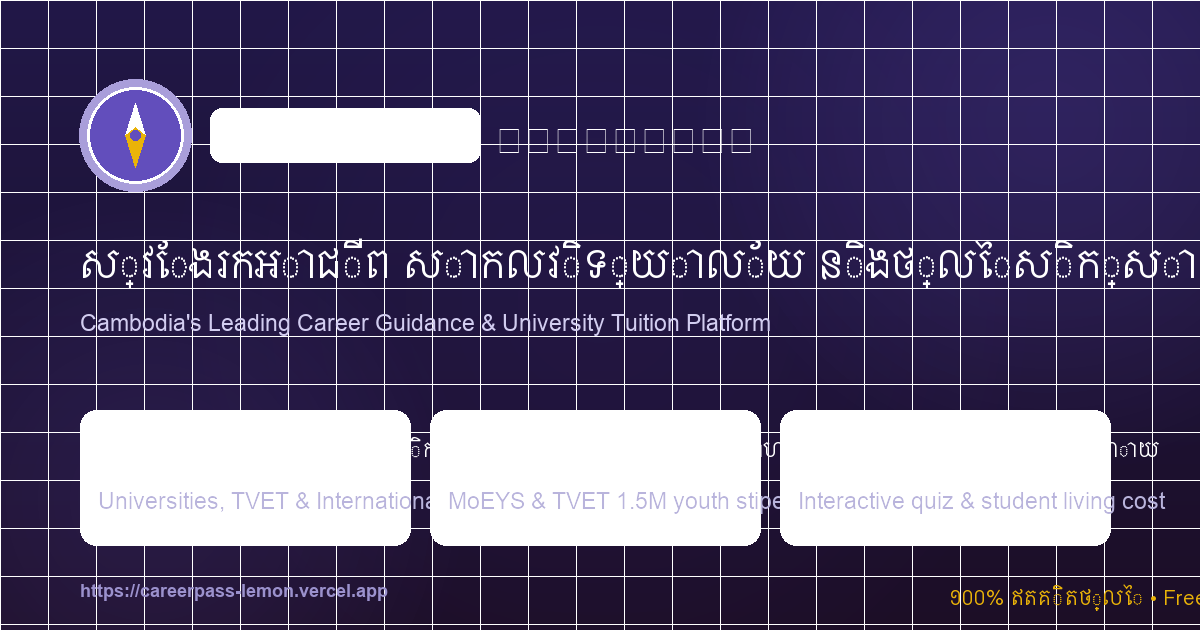
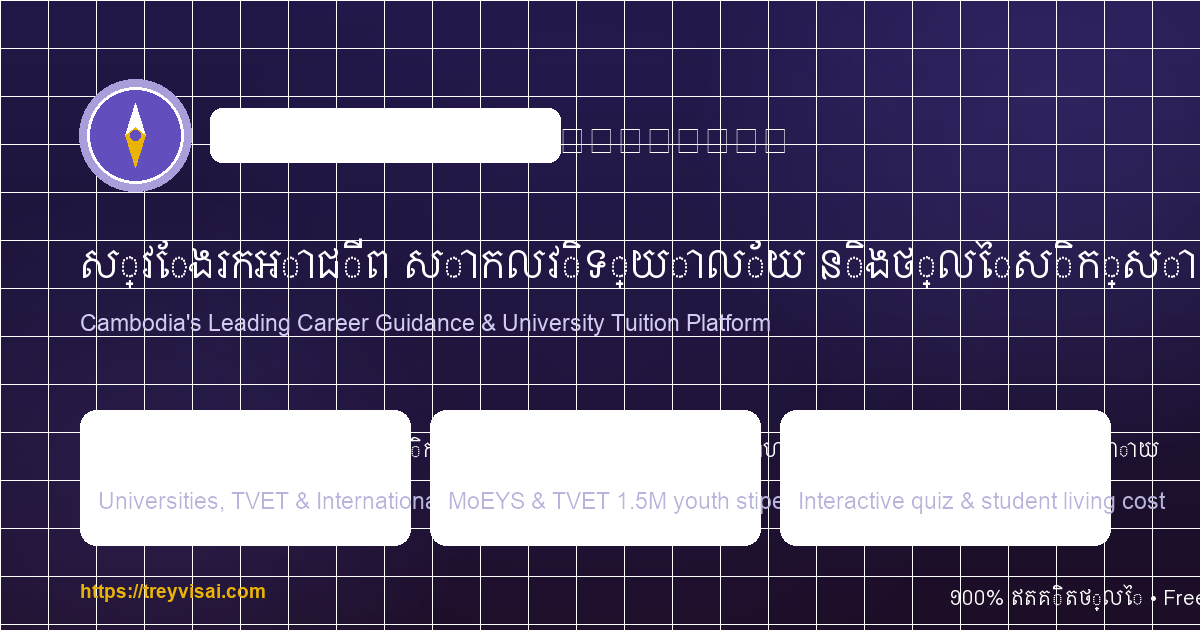
feat: rebrand site and canonical domain to treyvisai.com (#28)

Changed region(s): [[0.4008, 0.1508, 0.6475, 0.2714], [0.0617, 0.9048, 0.3392, 0.9651], [0.7708, 0.9349, 1.0, 0.9651]]

diff --git a/index.html b/index.html
@@ -3,42 +3,42 @@
 <head>
 <meta charset="UTF-8">
 <meta name="viewport" content="width=device-width, initial-scale=1.0, viewport-fit=cover">
-<title>Trey Visai (ត្រីវិស័យ) — ស្វែងរកអាជីព សាកលវិទ្យាល័យ និងថ្លៃសិក្សានៅកម្ពុជា</title>
+<title>treyvisai.com (ត្រីវិស័យ) — ស្វែងរកអាជីព សាកលវិទ្យាល័យ និងថ្លៃសិក្សានៅកម្ពុជា</title>
 
 <!-- Primary SEO Meta Tags -->
-<meta name="description" content="ត្រីវិស័យ (Trey Visai) — ថ្នាលណែនាំអាជីព និងស្វែងរកគ្រឹះស្ថានឧត្តមសិក្សា ១១៦+ នៅកម្ពុជា តារាងថ្លៃសិក្សាពិតប្រាកដ អាហារូបករណ៍រដ្ឋ MOEYS & TVET 1.5M តេស្តស្វែងរកអាជីព និងការគណនាថ្លៃជីវភាពសិស្សនិស្សិត។">
-<meta name="keywords" content="ត្រីវិស័យ, Trey Visai, Careerpass, សាកលវិទ្យាល័យនៅកម្ពុជា, សាលារៀននៅភ្នំពេញ, សាកលវិទ្យាល័យរដ្ឋ, សាកលវិទ្យាល័យឯកជន, អាហារូបករណ៍រដ្ឋ, ថ្លៃសិក្សាសាកលវិទ្យាល័យ, ស្វែងរកការងារ, អាជីពនៅកម្ពុជា, TVET, universities in Cambodia, Cambodia tuition fees, Cambodia career guide">
-<meta name="author" content="Trey Visai (ត្រីវិស័យ)">
+<meta name="description" content="treyvisai.com (ត្រីវិស័យ) — ថ្នាលណែនាំអាជីព និងស្វែងរកគ្រឹះស្ថានឧត្តមសិក្សា ១១៦+ នៅកម្ពុជា តារាងថ្លៃសិក្សាពិតប្រាកដ អាហារូបករណ៍រដ្ឋ MOEYS & TVET 1.5M តេស្តស្វែងរកអាជីព និងការគណនាថ្លៃជីវភាពសិស្សនិស្សិត។">
+<meta name="keywords" content="treyvisai.com, treyvisai, ត្រីវិស័យ, Trey Visai, Careerpass, សាកលវិទ្យាល័យនៅកម្ពុជា, សាលារៀននៅភ្នំពេញ, សាកលវិទ្យាល័យរដ្ឋ, សាកលវិទ្យាល័យឯកជន, អាហារូបករណ៍រដ្ឋ, ថ្លៃសិក្សាសាកលវិទ្យាល័យ, ស្វែងរកការងារ, អាជីពនៅកម្ពុជា, TVET, universities in Cambodia, Cambodia tuition fees, Cambodia career guide">
+<meta name="author" content="treyvisai.com">
 <meta name="robots" content="index, follow, max-snippet:-1, max-image-preview:large, max-video-preview:-1">
-<link rel="canonical" href="https://careerpass-lemon.vercel.app/">
+<link rel="canonical" href="https://treyvisai.com/">
 
 <!-- Open Graph / Facebook / Telegram / LinkedIn -->
 <meta property="og:type" content="website">
-<meta property="og:url" content="https://careerpass-lemon.vercel.app/">
-<meta property="og:site_name" content="Trey Visai (ត្រីវិស័យ)">
-<meta property="og:title" content="Trey Visai (ត្រីវិស័យ) — ស្វែងរកអាជីព សាកលវិទ្យាល័យ និងថ្លៃសិក្សានៅកម្ពុជា">
+<meta property="og:url" content="https://treyvisai.com/">
+<meta property="og:site_name" content="treyvisai.com">
+<meta property="og:title" content="treyvisai.com (ត្រីវិស័យ) — ស្វែងរកអាជីព សាកលវិទ្យាល័យ និងថ្លៃសិក្សានៅកម្ពុជា">
 <meta property="og:description" content="ស្វែងរកសាកលវិទ្យាល័យ ១១៦+ ព័ត៌មានអាហារូបករណ៍រដ្ឋ MOEYS & TVET 1.5M ថ្លៃសិក្សាពិតប្រាកដ និងការណែនាំអាជីពឆ្លាតវៃនៅកម្ពុជា។">
-<meta property="og:image" content="https://careerpass-lemon.vercel.app/public/og-image.png">
-<meta property="og:image:secure_url" content="https://careerpass-lemon.vercel.app/public/og-image.png">
+<meta property="og:image" content="https://treyvisai.com/public/og-image.png">
+<meta property="og:image:secure_url" content="https://treyvisai.com/public/og-image.png">
 <meta property="og:image:type" content="image/png">
 <meta property="og:image:width" content="1200">
 <meta property="og:image:height" content="630">
-<meta property="og:image:alt" content="Trey Visai — Cambodia Career & University Guidance Platform">
+<meta property="og:image:alt" content="treyvisai.com — Cambodia Career & University Guidance Platform">
 <meta property="og:locale" content="km_KH">
 <meta property="og:locale:alternate" content="en_US">
 
 <!-- Twitter / X Cards -->
 <meta name="twitter:card" content="summary_large_image">
-<meta name="twitter:url" content="https://careerpass-lemon.vercel.app/">
-<meta name="twitter:title" content="Trey Visai (ត្រីវិស័យ) — ស្វែងរកអាជីព សាកលវិទ្យាល័យ និងថ្លៃសិក្សានៅកម្ពុជា">
+<meta name="twitter:url" content="https://treyvisai.com/">
+<meta name="twitter:title" content="treyvisai.com (ត្រីវិស័យ) — ស្វែងរកអាជីព សាកលវិទ្យាល័យ និងថ្លៃសិក្សានៅកម្ពុជា">
 <meta name="twitter:description" content="ស្វែងរកសាកលវិទ្យាល័យ ១១៦+ ព័ត៌មានអាហារូបករណ៍រដ្ឋ MOEYS & TVET 1.5M ថ្លៃសិក្សាពិតប្រាកដ និងការណែនាំអាជីពឆ្លាតវៃនៅកម្ពុជា។">
-<meta name="twitter:image" content="https://careerpass-lemon.vercel.app/public/og-image.png">
-<meta name="twitter:image:alt" content="Trey Visai — Cambodia Career & University Guidance Platform">
+<meta name="twitter:image" content="https://treyvisai.com/public/og-image.png">
+<meta name="twitter:image:alt" content="treyvisai.com — Cambodia Career & University Guidance Platform">
 
 <!-- Mobile App & Theme Meta -->
 <meta name="theme-color" content="#624EBC">
-<meta name="application-name" content="Trey Visai">
-<meta name="apple-mobile-web-app-title" content="Trey Visai">
+<meta name="application-name" content="treyvisai.com">
+<meta name="apple-mobile-web-app-title" content="treyvisai.com">
 <meta name="apple-mobile-web-app-capable" content="yes">
 <meta name="apple-mobile-web-app-status-bar-style" content="default">
 <meta name="format-detection" content="telephone=no">
@@ -65,27 +65,27 @@
   "@graph": [
     {
       "@type": "WebSite",
-      "@id": "https://careerpass-lemon.vercel.app/#website",
-      "url": "https://careerpass-lemon.vercel.app/",
-      "name": "Trey Visai",
-      "alternateName": ["ត្រីវិស័យ", "Careerpass", "Trey Visai Cambodia"],
+      "@id": "https://treyvisai.com/#website",
+      "url": "https://treyvisai.com/",
+      "name": "treyvisai.com",
+      "alternateName": ["ត្រីវិស័យ", "Trey Visai", "Careerpass", "Trey Visai Cambodia"],
       "description": "ថ្នាលស្វែងរកអាជីព សាកលវិទ្យាល័យ ១១៦+ តម្លៃសិក្សា និងអាហារូបករណ៍នៅកម្ពុជា",
       "inLanguage": ["km", "en"],
       "potentialAction": {
         "@type": "SearchAction",
         "target": {
           "@type": "EntryPoint",
-          "urlTemplate": "https://careerpass-lemon.vercel.app/#schools?q={search_term_string}"
+          "urlTemplate": "https://treyvisai.com/#schools?q={search_term_string}"
         },
         "query-input": "required name=search_term_string"
       }
     },
     {
       "@type": "EducationalOrganization",
-      "@id": "https://careerpass-lemon.vercel.app/#organization",
-      "name": "Trey Visai (ត្រីវិស័យ)",
-      "url": "https://careerpass-lemon.vercel.app/",
-      "logo": "https://careerpass-lemon.vercel.app/public/og-image.png",
+      "@id": "https://treyvisai.com/#organization",
+      "name": "treyvisai.com (ត្រីវិស័យ)",
+      "url": "https://treyvisai.com/",
+      "logo": "https://treyvisai.com/public/og-image.png",
       "description": "Platform for Cambodian students to discover careers, universities, tuition fees, and scholarships.",
       "areaServed": {
         "@type": "Country",
@@ -94,11 +94,11 @@
     },
     {
       "@type": "FAQPage",
-      "@id": "https://careerpass-lemon.vercel.app/#faq",
+      "@id": "https://treyvisai.com/#faq",
       "mainEntity": [
         {
           "@type": "Question",
-          "name": "តើ Trey Visai ឥតគិតថ្លៃមែនទេ?",
+          "name": "តើ treyvisai.com ឥតគិតថ្លៃមែនទេ?",
           "acceptedAnswer": {
             "@type": "Answer",
             "text": "មែនហើយ។ មុខងារទាំងអស់ — ស្វែងរកអាជីព ស្វែងរកសាលា និងគណនាថ្លៃសិក្សា — ឥតគិតថ្លៃទាំងស្រុង ដោយមិនចាំបាច់បង្កើតគណនី ឬបង់ប្រាក់។"
@@ -151,7 +151,7 @@
         <circle class="pc-hub" cx="50" cy="50" r="4"/>
       </svg>
     </div>
-    <div class="pre-word">TREY VISAI</div>
+    <div class="pre-word">TREYVISAI.COM</div>
     <div class="pre-sub">កំពុងស្វែងរកផ្លូវរបស់អ្នក…</div>
   </div>
 </div>
@@ -182,7 +182,7 @@
         <path d="M16 8L10.6 10.6L8 16L13.4 13.4L16 8Z" fill="var(--accent)" stroke="var(--accent)" stroke-width="1.1" stroke-linejoin="round"/>
         <circle cx="12" cy="12" r="1.15" fill="currentColor"/>
       </svg>
-      <span>Trey Visai</span>
+      <span>treyvisai.com</span>
     </div>
     <div class="nav-right">
       <nav class="nav-links" id="nav-links">
@@ -206,7 +206,7 @@
   <div class="hero reveal">
     <div class="hero-badge"><i class="material-symbols-outlined" style="font-size:14px">auto_awesome</i> ជំនួយការអាជីពរបស់អ្នក</div>
     <h1 id="hero-title"><span id="hero-type">ស្វែងរកខ្លួនអ្នក ជ្រើសរើសអាជីព រៀនកន្លែងណា</span><span class="type-cursor" id="type-cursor"></span></h1>
-    <p class="sub">Trey Visai ជួយសិស្សស្វែងរកអាជីពដែលសមស្រប ស្វែងរកសាលាដែលបង្រៀន និងប៉ាន់ស្មានថ្លៃដែលត្រូវចំណាយ។</p>
+    <p class="sub">treyvisai.com ជួយសិស្សស្វែងរកអាជីពដែលសមស្រប ស្វែងរកសាលាដែលបង្រៀន និងប៉ាន់ស្មានថ្លៃដែលត្រូវចំណាយ។</p>
     <div class="cta-row">
       <button class="btn btn-primary btn-lg" data-view="careers"><i class="material-symbols-outlined">explore</i> ស្វែងរកអាជីព</button>
     </div>
@@ -277,7 +277,7 @@
       <h2 class="home-h2">សំណួរ ដែលសិស្សតែងសួរ</h2>
     </div>
     <div class="faq-list">
-      <details class="faq-item"><summary>តើ Trey Visai ឥតគិតថ្លៃមែនទេ?<i class="material-symbols-outlined">expand_more</i></summary><p>មែនហើយ។ មុខងារទាំងអស់ — ស្វែងរកអាជីព ស្វែងរកសាលា និងគណនាថ្លៃសិក្សា — ឥតគិតថ្លៃទាំងស្រុង ដោយមិនចាំបាច់បង្កើតគណនី ឬបង់ប្រាក់។</p></details>
+      <details class="faq-item"><summary>តើ treyvisai.com ឥតគិតថ្លៃមែនទេ?<i class="material-symbols-outlined">expand_more</i></summary><p>មែនហើយ។ មុខងារទាំងអស់ — ស្វែងរកអាជីព ស្វែងរកសាលា និងគណនាថ្លៃសិក្សា — ឥតគិតថ្លៃទាំងស្រុង ដោយមិនចាំបាច់បង្កើតគណនី ឬបង់ប្រាក់។</p></details>
       <details class="faq-item"><summary>តើខ្ញុំគួរចាប់ផ្ដើមស្វែងរកដោយរបៀបណា?<i class="material-symbols-outlined">expand_more</i></summary><p>អ្នកអាចចាប់ផ្ដើមដោយការរុករកទំព័រ «អាជីព» ដើម្បីស្វែងយល់ពីទីផ្សារការងារ ឬទំព័រ «សាលា» ដើម្បីស្វែងរកគ្រឹះស្ថានឧត្តមសិក្សា និងកម្មវិធីសិក្សាដែលត្រូវចិត្ត។</p></details>
       <details class="faq-item"><summary>តើមានសាលាប៉ុន្មាននៅក្នុងប្រព័ន្ធ?<i class="material-symbols-outlined">expand_more</i></summary><p>បច្ចុប្បន្នមាន ១១៦ សាកលវិទ្យាល័យ វិទ្យាស្ថាន និងសាលាបណ្ដុះបណ្ដាល ទាំងរដ្ឋ និងឯកជន នៅទូទាំងប្រទេស ព្រមទាំងព័ត៌មានថ្លៃសិក្សា និងអាហារូបករណ៍។</p></details>
       <details class="faq-item"><summary>តើទិន្នន័យថ្លៃសិក្សាពិតប្រាកដទេ?<i class="material-symbols-outlined">expand_more</i></summary><p>តួលេខថ្លៃសិក្សាគឺជាការប៉ាន់ស្មានផ្អែកលើព័ត៌មានផ្លូវការ ដើម្បីជួយអ្នកគ្រោងទុក។ សូមផ្ទៀងផ្ទាត់ជាមួយសាលាដោយផ្ទាល់មុនពេលសម្រេចចិត្ត។</p></details>
@@ -673,12 +673,12 @@
 <section id="view-terms" class="view">
   <div class="page-wrap">
     <h2 class="page-title">លក្ខខណ្ឌ និងការប្រើប្រាស់</h2>
-    <p class="page-sub">សូមអានលក្ខខណ្ឌខាងក្រោមមុននឹងប្រើប្រាស់ Trey Visai</p>
+    <p class="page-sub">សូមអានលក្ខខណ្ឌខាងក្រោមមុននឹងប្រើប្រាស់ treyvisai.com</p>
     <div class="legal-box reveal">
       <i class="material-symbols-outlined">school</i>
       <div>
         <h3>សម្រាប់គោលបំណងអប់រំប៉ុណ្ណោះ</h3>
-        <p>Trey Visai ត្រូវបានបង្កើតឡើងសម្រាប់គោលបំណងអប់រំ និងការណែនាំតែប៉ុណ្ណោះ។ ព័ត៌មានទាំងអស់ក្នុងគេហទំព័រនេះមិនមែនជាការណែនាំផ្លូវការ ឬការសម្រេចចិត្តចុងក្រោយឡើយ។</p>
+        <p>treyvisai.com ត្រូវបានបង្កើតឡើងសម្រាប់គោលបំណងអប់រំ និងការណែនាំតែប៉ុណ្ណោះ។ ព័ត៌មានទាំងអស់ក្នុងគេហទំព័រនេះមិនមែនជាការណែនាំផ្លូវការ ឬការសម្រេចចិត្តចុងក្រោយឡើយ។</p>
       </div>
     </div>
 
@@ -710,7 +710,7 @@
       <h3><span class="num">៧</span> ការទទួលខុសត្រូវ</h3>
       <p>ការប្រើប្រាស់គេហទំព័រនេះ ស្ថិតលើការសម្រេចចិត្តផ្ទាល់ខ្លួនរបស់អ្នក។ អ្នកបង្កើតគម្រោងនេះមិនទទួលខុសត្រូវចំពោះការសម្រេចចិត្តណាមួយ ដែលធ្វើឡើងដោយផ្អែកលើព័ត៌មានក្នុងគេហទំព័រនេះទេ។ សូមពិគ្រោះជាមួយគ្រូ ឪពុកម្ដាយ ឬអ្នកប្រឹក្សាមុននឹងសម្រេចចិត្ត។</p>
     </div>
-    <p class="legal-updated">ធ្វើបច្ចុប្បន្នភាពចុងក្រោយ៖ ឆ្នាំ ២០២៦ · Trey Visai — សម្រាប់គោលបំណងអប់រំប៉ុណ្ណោះ</p>
+    <p class="legal-updated">ធ្វើបច្ចុប្បន្នភាពចុងក្រោយ៖ ឆ្នាំ ២០២៦ · treyvisai.com — សម្រាប់គោលបំណងអប់រំប៉ុណ្ណោះ</p>
   </div>
 </section>
 
@@ -745,7 +745,7 @@
 <footer class="site-footer">
   <div class="footer-inner">
     <div class="footer-bottom">
-      <p class="footer-copy">&copy; 2026 Trey Visai · សម្រាប់គោលបំណងអប់រំប៉ុណ្ណោះ</p>
+      <p class="footer-copy">&copy; 2026 treyvisai.com · សម្រាប់គោលបំណងអប់រំប៉ុណ្ណោះ</p>
       <p class="footer-tagline">គម្រោងជួយសិស្សស្វែងរកអាជីព សាលារៀន និងថ្លៃសិក្សា</p>
     </div>
   </div>
@@ -755,12 +755,12 @@
 
 <div id="mascot-backdrop" class="mascot-backdrop"></div>
 <div id="mascot-widget" class="mascot-widget">
-  <div id="mascot-chat" class="mascot-chat" role="dialog" aria-modal="false" aria-label="ជំនួយការគេហទំព័រ Trey Visai" hidden>
+  <div id="mascot-chat" class="mascot-chat" role="dialog" aria-modal="false" aria-label="ជំនួយការគេហទំព័រ treyvisai.com" hidden>
     <div class="mascot-chat-header">
       <div style="display:flex;align-items:center;gap:8px">
         <img src="public/mascot/idle.png" alt="" class="mascot-header-avatar" width="28" height="28">
         <div>
-          <div class="mascot-chat-title">ជំនួយការ Trey Visai</div>
+          <div class="mascot-chat-title">ជំនួយការ treyvisai.com</div>
           <div class="mascot-chat-status"><span class="mascot-online-dot"></span> កំពុងដំណើរការ</div>
         </div>
       </div>

diff --git a/app.js b/app.js
@@ -131,16 +131,16 @@ hamburger.addEventListener("click",toggleSidebar);
 
 /* ===== NAVIGATION ===== */
 const VIEW_TITLES = {
-  home: "Trey Visai (ត្រីវិស័យ) — ស្វែងរកអាជីព សាកលវិទ្យាល័យ និងថ្លៃសិក្សានៅកម្ពុជា",
-  schools: "ស្វែងរកសាលារៀន និងសាកលវិទ្យាល័យ ១១៦+ នៅកម្ពុជា — Trey Visai",
-  careers: "បញ្ជីអាជីព និងការងារពេញនិយមនៅកម្ពុជា — Trey Visai",
-  cost: "ប៉ាន់ស្មានថ្លៃសិក្សា & ជីវភាពរស់នៅ — Trey Visai",
-  quiz: "តេស្តស្វែងរកអាជីពដែលស័ក្តិសម — Trey Visai",
-  scholarship: "អាហារូបករណ៍រដ្ឋ និងជំនួយហិរញ្ញវត្ថុ — Trey Visai",
-  compare: "ប្រៀបធៀបសាកលវិទ្យាល័យនៅកម្ពុជា — Trey Visai",
-  plan: "ផែនការអប់រំ និងអាជីពផ្ទាល់ខ្លួន — Trey Visai",
-  facts: "តើអ្នកដឹងទេ? ការពិត និងស្ថិតិអប់រំ — Trey Visai",
-  terms: "លក្ខខណ្ឌប្រើប្រាស់ និងគោលការណ៍ឯកជនភាព — Trey Visai"
+  home: "treyvisai.com (ត្រីវិស័យ) — ស្វែងរកអាជីព សាកលវិទ្យាល័យ និងថ្លៃសិក្សានៅកម្ពុជា",
+  schools: "ស្វែងរកសាលារៀន និងសាកលវិទ្យាល័យ ១១៦+ នៅកម្ពុជា — treyvisai.com",
+  careers: "បញ្ជីអាជីព និងការងារពេញនិយមនៅកម្ពុជា — treyvisai.com",
+  cost: "ប៉ាន់ស្មានថ្លៃសិក្សា & ជីវភាពរស់នៅ — treyvisai.com",
+  quiz: "តេស្តស្វែងរកអាជីពដែលស័ក្តិសម — treyvisai.com",
+  scholarship: "អាហារូបករណ៍រដ្ឋ និងជំនួយហិរញ្ញវត្ថុ — treyvisai.com",
+  compare: "ប្រៀបធៀបសាកលវិទ្យាល័យនៅកម្ពុជា — treyvisai.com",
+  plan: "ផែនការអប់រំ និងអាជីពផ្ទាល់ខ្លួន — treyvisai.com",
+  facts: "តើអ្នកដឹងទេ? ការពិត និងស្ថិតិអប់រំ — treyvisai.com",
+  terms: "លក្ខខណ្ឌប្រើប្រាស់ និងគោលការណ៍ឯកជនភាព — treyvisai.com"
 };
 
 function showView(v){
@@ -435,7 +435,7 @@ function openSchool(id){
       </div>
     </div>`;
   showView("school-detail");
-  document.title = `${s.name} — មហាវិទ្យាល័យ ថ្លៃសិក្សា & អាហារូបករណ៍ | Trey Visai`;
+  document.title = `${s.name} — មហាវិទ្យាល័យ ថ្លៃសិក្សា & អាហារូបករណ៍ | treyvisai.com`;
   try{sessionStorage.setItem("tv_detail","school:"+id);}catch(e){}
 }
 
@@ -763,7 +763,7 @@ function openCareer(id){
       </div>
     </div>`;
   showView("career-detail");
-  document.title = `${j.name} — ប្រាក់ខែ ជំនាញ & សាលា | Trey Visai`;
+  document.title = `${j.name} — ប្រាក់ខែ ជំនាញ & សាលា | treyvisai.com`;
   try{sessionStorage.setItem("tv_detail","career:"+id);}catch(e){}
 }
 document.getElementById("career-search").addEventListener("input",e=>{jobSearch=e.target.value;jobPage=1;renderCareers();});
@@ -946,7 +946,7 @@ function costData(){
 function costShareText(){
   const d=costData();
   const bar="━━━━━━━━━━━━━";
-  const L=["🧾 វិក្កយបត្រថ្លៃសិក្សា — Trey Visai",bar];
+  const L=["🧾 វិក្កយបត្រថ្លៃសិក្សា — treyvisai.com",bar];
   if(d.sc)L.push("🏫 "+d.sc);
   if(d.dur)L.push("🎓 "+d.dur);
   L.push(bar);
@@ -959,7 +959,7 @@ function costShareText(){
   L.push("💰 សរុប៖ "+(d.total||"$0"));
   if(d.pay&&d.pay!=="—")L.push("📊 ROI សងវិញ "+d.pay+(d.sal?" · ប្រាក់ខែ ~"+d.sal:""));
   L.push(bar);
-  L.push("🔗 គណនាដោយខ្លួនឯងនៅ Trey Visai");
+  L.push("🔗 គណនាដោយខ្លួនឯងនៅ treyvisai.com");
   return L.join("\n");
 }
 function shareCostTo(p){
@@ -970,7 +970,7 @@ function shareCostTo(p){
     return;
   }
   if(p==="native"){
-    if(navigator.share){navigator.share({title:"ថ្លៃសិក្សា — Trey Visai",text:costShareText(),url:shareUrl}).catch(()=>{});}else shareCostTo("copy");
+    if(navigator.share){navigator.share({title:"ថ្លៃសិក្សា — treyvisai.com",text:costShareText(),url:shareUrl}).catch(()=>{});}else shareCostTo("copy");
     return;
   }
   const url=encodeURIComponent(shareUrl);
@@ -993,7 +993,7 @@ function decodePlanHash(b64){
   try{return JSON.parse(decodeURIComponent(escape(atob(b64))));}catch(e){return null;}
 }
 function planShareText(){
-  const lines=["🎓 ផែនការសិក្សារបស់ខ្ញុំ — Trey Visai",""];
+  const lines=["🎓 ផែនការសិក្សារបស់ខ្ញុំ — treyvisai.com",""];
   let careerName=null;
   if(plan.careers.length){const j=careersList.find(x=>x.id===plan.careers[0]);if(j)careerName=j.name;}
   if(careerName)lines.push("🎯 អាជីពគោលដៅ៖ "+careerName);
@@ -1010,7 +1010,7 @@ function sharePlanTo(p){
     return;
   }
   if(p==="native"){
-    if(navigator.share){navigator.share({title:"ផែនការសិក្សា — Trey Visai",text:planShareText(),url:encodePlanUrl()}).catch(()=>{});}else sharePlanTo("copy");
+    if(navigator.share){navigator.share({title:"ផែនការសិក្សា — treyvisai.com",text:planShareText(),url:encodePlanUrl()}).catch(()=>{});}else sharePlanTo("copy");
     return;
   }
   const url=encodeURIComponent(encodePlanUrl());
@@ -1526,7 +1526,7 @@ document.querySelectorAll(".reveal").forEach(el=>obs.observe(el));
   ];
 
   const TROLL_FALLBACKS=[
-    "សួរអីចម្លែកៗម៉្លេះ Bro/Sis? ខ្ញុំជាជំនួយការ Trey Visai មិនមែនគ្រូទាយទេ! 🔮😂 សាកចុចលើ «សំណួរពេញនិយម» ខាងក្រោម ឬសួររឿងសាលា/អាជីពវិញមក!",
+    "សួរអីចម្លែកៗម៉្លេះ Bro/Sis? ខ្ញុំជាជំនួយការ treyvisai.com មិនមែនគ្រូទាយទេ! 🔮😂 សាកចុចលើ «សំណួរពេញនិយម» ខាងក្រោម ឬសួររឿងសាលា/អាជីពវិញមក!",
     "អានសំណួរហើយ ខ្ញុំចង់គាំង CPU ដែរ! 😵💫💻 សួរឈ្មោះសាលា ឬអាជីពឱ្យស្រួលបួលមក ចាំជួយប្រាប់!",
     "សំណួរនេះស៊ីអារម្មណ៍ពេក ខ្ញុំឆ្លើយអត់ត្រូវទេ! 🤣 សួររឿងប្រាក់ខែ សាលារៀន ឬអាជីពវិញមក ចាំឆ្លើយឱ្យចង់វិលមុខ!"
   ];
@@ -1544,7 +1544,7 @@ document.querySelectorAll(".reveal").forEach(el=>obs.observe(el));
       const avatar=document.createElement("img");
       avatar.src=POSES.idle;
       avatar.className="mascot-msg-avatar";
-      avatar.alt="Trey Visai";
+      avatar.alt="treyvisai.com";
       row.appendChild(avatar);
     }
 
@@ -1578,7 +1578,7 @@ document.querySelectorAll(".reveal").forEach(el=>obs.observe(el));
     const avatar=document.createElement("img");
     avatar.src=POSES.celebrate;
     avatar.className="mascot-msg-avatar";
-    avatar.alt="Trey Visai";
+    avatar.alt="treyvisai.com";
     row.appendChild(avatar);
 
     const bubbleWrap=document.createElement("div");
@@ -1635,7 +1635,7 @@ document.querySelectorAll(".reveal").forEach(el=>obs.observe(el));
     const avatar=document.createElement("img");
     avatar.src=POSES.celebrate;
     avatar.className="mascot-msg-avatar";
-    avatar.alt="Trey Visai";
+    avatar.alt="treyvisai.com";
     row.appendChild(avatar);
 
     const bubbleWrap=document.createElement("div");
@@ -1692,7 +1692,7 @@ document.querySelectorAll(".reveal").forEach(el=>obs.observe(el));
     const avatar=document.createElement("img");
     avatar.src=POSES.thinking;
     avatar.className="mascot-msg-avatar";
-    avatar.alt="Trey Visai";
+    avatar.alt="treyvisai.com";
     row.appendChild(avatar);
 
     const bubbleWrap=document.createElement("div");
@@ -1784,7 +1784,7 @@ document.querySelectorAll(".reveal").forEach(el=>obs.observe(el));
       const avatar=document.createElement("img");
       avatar.src=POSES.thinking;
       avatar.className="mascot-msg-avatar";
-      avatar.alt="Trey Visai";
+      avatar.alt="treyvisai.com";
       row.appendChild(avatar);
 
       const bubbleWrap=document.createElement("div");

diff --git a/CONTRIBUTING.md b/CONTRIBUTING.md
@@ -1,4 +1,4 @@
-# Contributing to Trey Visai / Careerpass
+# Contributing to treyvisai.com (Trey Visai / Careerpass)
 
 This is a static site (plain HTML/CSS/JS, no build step, no framework). Before
 adding or editing data, read this file — it captures the conventions the
